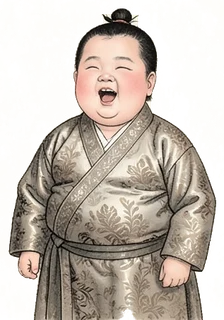
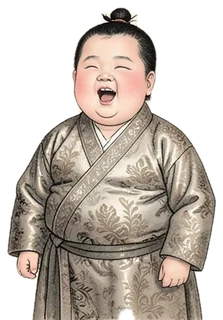
lingjing 忍字's 马小宝: the paper outside him taken out whole (live at 390 a faint paper box showed round him — an aged sheet is never one colour); the flood's edge feathered 1.2 px

diff --git a/lingjing/tools/paint-rope-flux.py b/lingjing/tools/paint-rope-flux.py
@@ -115,7 +115,7 @@ TURN = {'peg': 180}
 FADE = {'fallpine': 90}
 # Only the paper joined to the picture's edge is taken out (a flood from the border over the paper-coloured pixels, the
 # figure's outline first thickened 5 px so a faint pencil line still closes it): a face as pale as the paper (马小宝's)
-# stays opaque inside its outline.
+# stays opaque inside its outline, and the paper outside goes wholly (an aged sheet is never one colour).
 FLOOD = {'xiaobao'}
 # Where a sprite is written under art/games/ (its id, unless named here).
 OUTNAME = {'fallpine': 'fall/pine', 'peg': 'anchor/peg', 'branch': 'anchor/branch', 'dad': 'fall/dad', 'pack': 'fall/pack', 'ledge': 'fall/ledge', 'spur': 'fall/spur', 'fallcliff': 'fall/cliff'}
@@ -147,7 +147,7 @@ def to_webp(png, webp, box, size, threshold, turn=0, fade=0, flood=False):
           + (f"from PIL import ImageDraw, ImageFilter; m = Image.fromarray(np.where(d > {threshold} + 46, 255, 0).astype('uint8'), 'L').filter(ImageFilter.MaxFilter(11)); "
              "[ImageDraw.floodfill(m, xy, 128) for xy in [(x, 0) for x in range(0, m.width, 4)] + [(x, m.height - 1) for x in range(0, m.width, 4)] + [(0, y) for y in range(0, m.height, 4)] + [(m.width - 1, y) for y in range(0, m.height, 4)] if m.getpixel(xy) == 0]; "
              "bg = Image.fromarray(np.where(np.asarray(m) == 128, 255, 0).astype('uint8'), 'L').filter(ImageFilter.MaxFilter(11)); "
-             "al = np.where(np.asarray(bg) == 255, al, 255).astype(float); " if flood else '')
+             "al = np.asarray(Image.fromarray(np.where(np.asarray(bg) == 255, 0, 255).astype('uint8'), 'L').filter(ImageFilter.GaussianBlur(1.2))).astype(float); " if flood else '')
           + (f"al = al * np.clip((al.shape[0] - np.arange(al.shape[0]))[:, None] / {fade}, 0, 1); " if fade else '')
           + "img = Image.fromarray(np.dstack([a, al]).astype('uint8'), 'RGBA'); "
           + ("" if box else "ys, xs = np.where(al > 220); m = 12; img = img.crop((max(0, xs.min() - m), max(0, ys.min() - m), min(img.width, xs.max() + m), min(img.height, ys.max() + m))); ")
